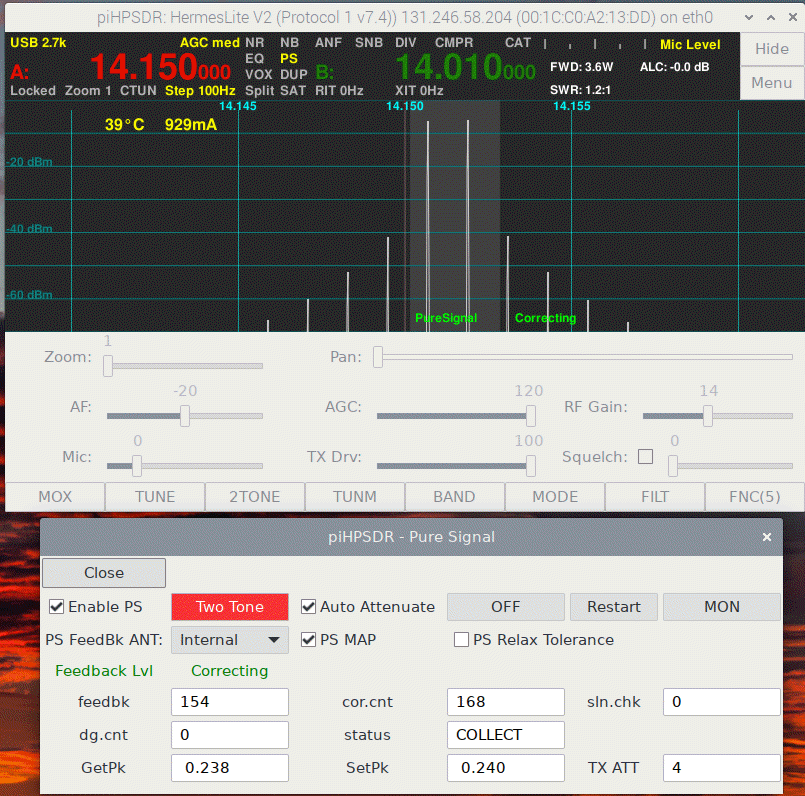
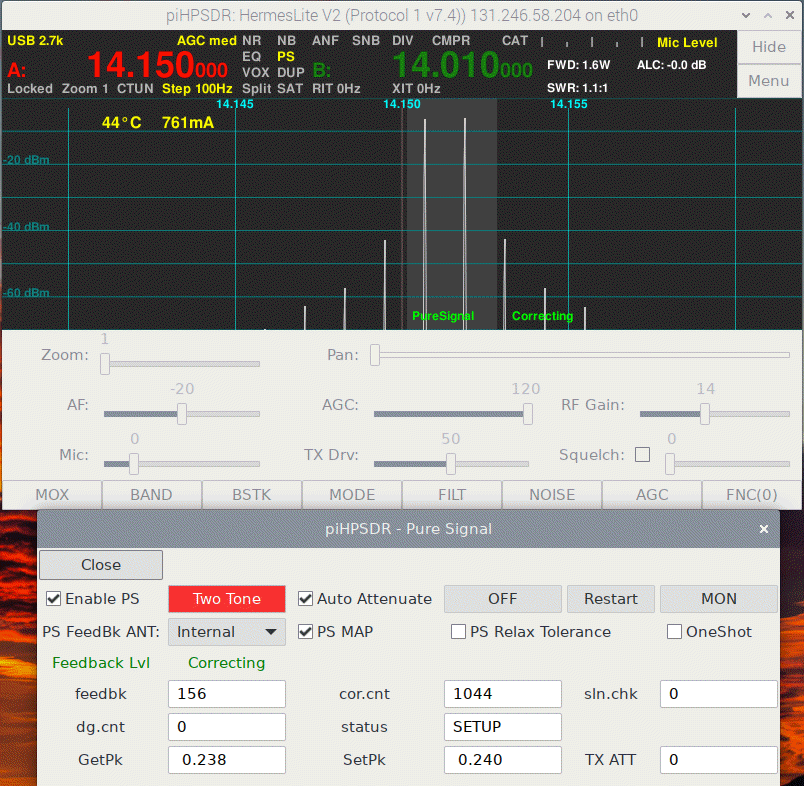
Updated manual (Display Menu, Equalizer Menu, PS Menu).

diff --git a/release/LatexManual/piHPSDR-Manual.tex b/release/LatexManual/piHPSDR-Manual.tex
@@ -1368,10 +1368,15 @@ for the RX  spectrum scope (see chapter \ref{sec:FillingGradient}).
 \rett{Gradient} This is used to enable/disable the ,,Gradient'' option
 (color coding) for the RX spectrum scope (see chapter \ref{sec:FillingGradient}).
 
- \rett{Display Waterfall} This option enables/disables the waterfall display
- of the RX panels. Note the spectrum scope is always shown (you cannot have the
- waterfall alone).
+\rett{Display Panadapter}. This option enables/disables the panadapter display
+on the RX panels. With the panadapter enabled, you can have the waterfall alone.
 
+ \rett{Display Waterfall}. This option enables/disables the waterfall display
+ of the RX panels. Note if both the waterfall and the panadapter is disabled,
+ there will simply be a large ,,hole'' in the piHPSDR window. This makes little sense
+ except on machines with very weak CPUs, since \textit{not} displaying neither waterfall
+ nor panadapter saves some CPU time in the graphics back-end.
+ 
 
 %%%%%%%%%%%%%%%%%%%%%%%%%%%%%%%%%%%%%%%%%%%%%%%%%%%%%%%%%%%%%%%%%%%%%%%%%%%%%%%%%%%%%%%%%%%%%%%%%%%%%%%%%%%%
 \section{The \texttt{Meter} menu}
@@ -2315,47 +2320,56 @@ If you open the \bltt{PS} menu for the first time it looks like shown in Fig.
 
 The elements have the following function:
 
-\rett{Enable PS} With this check box, PS can be enabled/disabled.
+\rett{Enable PS}. With this check box, PS can be enabled/disabled.
 
-\rett{Two Tone} With this button, a two-tone experiment can be started/stopped. The button
+\rett{Two Tone}. With this button, a two-tone experiment can be started/stopped. The button
 will be highlighted as long as the two-tone signal is transmitted. In the lower sideband
 modes (LSB, DIGL, CWL), an RF two-tone signal with frequencies 700 and 1900 Hz 
 \textit{below} the dial frequency are transmitted, in all other modes the two
 RF frequencies are 700 and 1900 Hz \textit{above} the dial frequency. 
 
-\rett{Auto Attenuate} This enables/disables automatic adjustment of the RF input
+\rett{Auto Attenuate}. This enables/disables automatic adjustment of the RF input
 attenuator to give the feedback level the correct strength. It is highly recommened
 to use this option.
 
-\rett{OFF} With this button, the PS correction can be stopped (the \rett{status} will
+\rett{OFF}. With this button, the PS correction can be stopped (the \rett{status} will
 then change to RESET).
 
-\rett{Restart} With this button, the PS correction can be resumed, for example after
+\rett{Restart}. With this button, the PS correction can be resumed, for example after
 it has been stopped.
 
-\rett{MON} With this button, it can be chosen whether the TX spectrum scope shows
+\rett{MON}. With this button, it can be chosen whether the TX spectrum scope shows
 the signal sent to the PA (MON button not highlighted) or whether the feedback signal
 from the antenna is shown (MON button highlighted).
 
-\rett{PS Feedback ANT} Here it must be specified which antenna jack is used for the
+\rett{PS Feedback ANT}. Here it must be specified which antenna jack is used for the
 PS feedback signal. It can be \rett{Internal} which means internal feedback
 (for example as built into the Anan-7000 or  simply the cross-talk from the
 TX/RX relay), or it can be \rett{Ext1} or \rett{ByPass} which refers to the
 auxiliary antenna jacks.
 
-\rett{PS MAP} This box controls the PURESIGNAL ,,Map mode'' and is normally checked. 
+\rett{PS MAP}. This box controls the PURESIGNAL ,,Map mode'' and is normally checked. 
 According to the WDSP manual, changing the Map mode allows easier calibration in
 situations where a very poor PA is driven into heavy gain compression. The state
 of this box has
 no effect if there is no compression. \textit{PS is stopped and re-started if
 this box is changed.}
 
-\rett{PS Relax Tolerance} This box is normally unchecked which means that the default
+\rett{PS Relax Tolerance}. This box is normally unchecked which means that the default
 value 0.8 is used for the PURESIGNAL calibration tolerance. If checked, this tolerance
 is reduced to 0.4. According to the WDSP manual, relaxing the tolerance my be helpful
 for PAs with a very poor load regulation in the power supply such that there are
 severe and slow memory effects. \textit{PS is stopped and re-started if
 this box is changed.}
+ 
+ \rett{OneShot}. This box is unchecked by default. In the default case, the PURESIGNAL
+ algorithm constantly compares the transmitted and the feedback signal and thus
+ constantly updates the calibration. If \rett{OneShot} is checked, the calibration
+ is kept when the two tone experiment is finished. There are cases, especially if
+ CPU power is lacking, where the PURESIGNAL algorithm from time to time fails to obtain
+ a valid calibration, and when this happens during transmitting, a bad signal may
+ be transmitted for a short amount of time. Checking \rett{OneShot} can help in such
+ situations because the calibration, once obtained, is kept and not changed.
  
 \begin{figure}[ht]
 \center
@@ -2364,13 +2378,13 @@ this box is changed.}
 \label{fig:PSnomon}
 \end{figure}
 
-\rett{Feedback Lvl} When doing a PS calibration through a two-tone experiment, this string
+\rett{Feedback Lvl}. When doing a PS calibration through a two-tone experiment, this string
 turns red if the feedback level is good. It turns yellow if the feedback level is slightly
 to weak and read if it is too weak. A blue colour indicates a too string feedback level.
 The feedback level reported by the PS calibration algorithm is further reported in the
 ,,feedbk'' field. The optimum value is about 154.
 
-\rett{Correcting} When doing a PS calibration through a two-tone experiment, this string
+\rett{Correcting}. When doing a PS calibration through a two-tone experiment, this string
 is green if calibration was successful and PS correction takes place, and the string is
 red if no good calibration could be made.
 
@@ -2381,7 +2395,8 @@ red if no good calibration could be made.
 \label{fig:PSmon}
 \end{figure}
 
-\rett{TX ATT} If \rett{Auto Attenuate} is not enabled, this is a spin button with which
+\rett{TX ATT}. This element can occur both as a text field or as a spin button.
+If \rett{Auto Attenuate} is not enabled, it is a spin button with which
 you can manually adjust the RF attenuation. For normal HPSDR radios, this is a value
 between 0 and 31, other radios such as the HermesLite have an extended range from
 -29 to 31. If the feedback level is too strong, this value must be increased, if it
@@ -2391,7 +2406,7 @@ Note that this attenuation value is only effective if \texttt{PURESIGNAL} is ena
 If not, the RF input attenuators are set to maximum attenution while transmitting, if the
 PA is enabled.
 
-\rett{SetPk} This field shows the currently assumed value of the peak value of the TX DAC
+\rett{SetPk}. This field shows the currently assumed value of the peak value of the TX DAC
 feedback signal. piHPSDR chooses is automatically, depending on the radio hardware.
 The standard value for P1 and P2 radios are 0.407 and 0.290. Notable exceptions are
 the HermesLite-II running P1 (SetPK=0.240) and the Anan-G2 running P2 (SetPK=0.612).
@@ -2497,7 +2512,12 @@ last Morse key closure.
 either generated by the radio (if CW is handled there and the radio
 has an audio codec) or
 by piHPSDR (if CW is not handled in the radio). The allowed range
-is 0--127, typical values are between 10 and 20.
+is 0--127, typical values are between 10 and 20. The side tone level
+is usually set to zero if, for example, a low latency sidetone is
+produced outside piHPSDR. In this case, one usually wants to hear
+the tone from CAT CW messages being sent, so if the side tone is
+zero, a default side tone level (12) is used while transmitting
+via CAT.
 
 \rett{Sidetone Freq}. This is the frequency of the side tone and the
 ,,BFO offset''. That is, if a CW signal is received exactly at the
@@ -2627,26 +2647,42 @@ is shown in Fig. \ref{fig:EqualizerMenu}.
 \label{fig:EqualizerMenu}
 \end{figure}
 
-Using \rett{Enable RX Equalizer} and \rett{Enable TX Equalizer},
-you can individually enable/disable the RX and TX equalizer.
-If the RX equalizer is enabled, the EQ indicator in the
+With the combo-box at the top right one can select if one
+wants to change the equalizer settings for the receivers
+RX0 or RX1, or for the transmitter. The equalizers are
+four-channel equalizers where the gain set with the sliders
+applies to the corner frequencies displayed at the left margin.
+Between two corner frequencies, the gain is interpolated
+(see the WDSP manual). The first slider, denoted \rett{Preamp},
+applies an additional, frequency-independent gain.
+
+The \rett{Enable} checkbox enables/disables the equalizer
+(either for RX0, for RX1, or for TX). 
+If the equalizer of the active receiver 
+is enabled, the EQ indicator in the
 VFO bar, upon receiving, turns yellow and reads \rett{RxEQ}.
 If the TX equalizer is enabled, this indicator turns yellow
 while transmitting and reads \rett{TxEQ}. So while receiving,
 you cannot tell, from the VFO bar, whether the TX equalizer is
 actually enabled or not!
 
-For both equalizers, there are four sliders which affect the
-overall gain (Preamp), and the amplification in the low/mid/high
-frequency range. Equalizer settings are saved with the mode, so
-if you adjust the Equaliziers when doing SSB, and then switch to
-DIGU, the equalizers are disabled and they resume their SSB
-settings upon going back to LSB/USB. This also applies to other
+Equalizer settings are saved with the mode, so
+if you adjust the Equaliziers when doing LSB, and then switch to
+DIGU, the equalizers are disabled and they resume their LSB
+settings upon going back to LSB. This also applies to other
 modes such as CWU/CWL, where the TX equalizer has no meaning
-anyway, and where the RX equalizer is normally not needed because
-CW filters usually are narrow.
+anyway, and where the RX equalizer is normally not needed 
+because CW filters usually are narrow. The corner frequencies
+can (in principle) be different for RX0, RX1, and TX. 
+There is currently
+no GUI to change them, but they can be changed by hand-editing
+the radio settings (props file), which is ,,nerds only'' and
+will not be discussed in the manual.
 
-For RX-only radios, the TX part of the equalizer menu is not shown.
+If the radio currently runs only a single receiver, RX1 cannot
+be selected with the top right combo-box. Likewise, if the
+radio does not have transmitter, the TX settings cannot be
+selected.
 
 %%%%%%%%%%%%%%%%%%%%%%%%%%%%%%%%%%%%%%%%%%%%%%%%%%%%%%%%%%%%%%%%%%%%%%%%%%%%%%%%%%%%%%%%%%%%%%%%%%%%%%%%%%%%
 \section{The \texttt{Ant} (Antenna) Menu}
